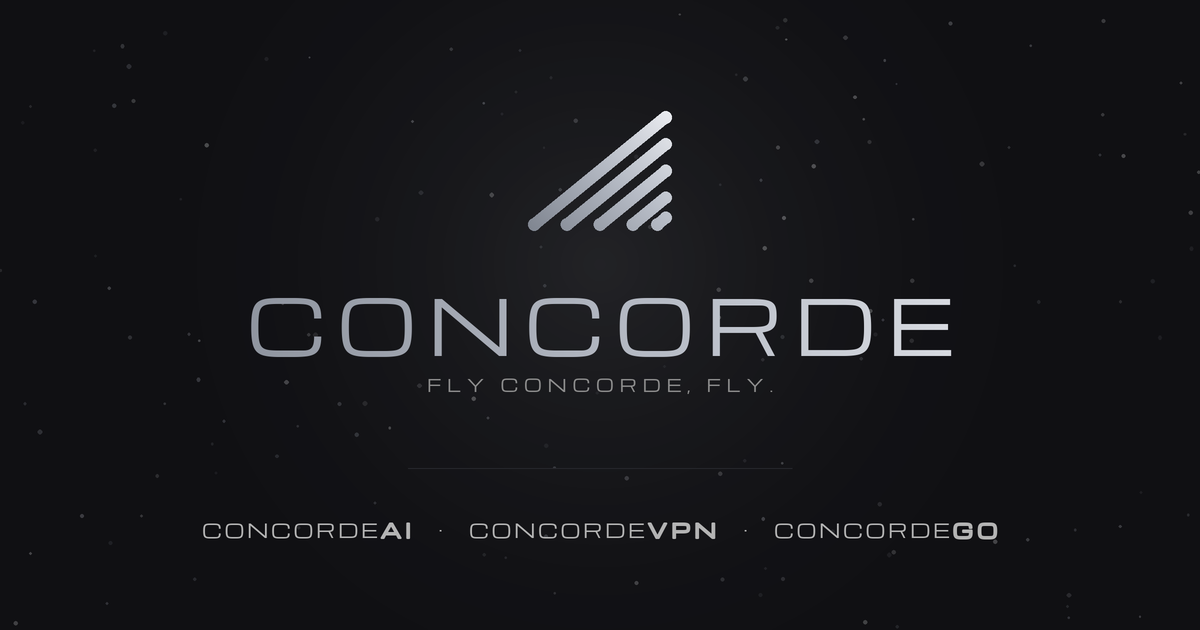
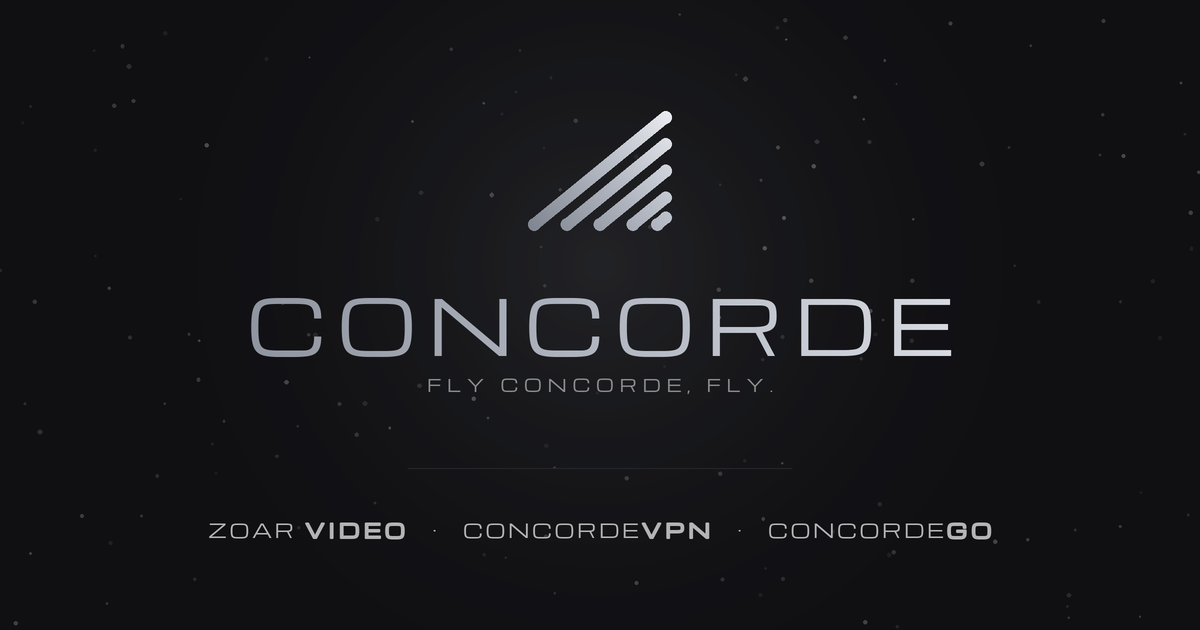
ConcordeAI retired: a downloads-only line, no FAQ, no news
ConcordeAI is no longer developed (Zoar Video leads). Its card keeps only its
name, one line and the last downloads; the releases:ai block and the sync
stay so the links resolve. Its FAQ group, contact option, structured-data
entry, window files and What's new entries are gone, the share card names
Zoar Video, and the install notes speak only of ConcordeVPN's channels.

Changed region(s): [[0.4008, 0.8143, 0.6167, 0.8746], [0.6475, 0.8143, 0.8325, 0.8746], [0.185, 0.8143, 0.3392, 0.8746]]

diff --git a/index.html b/index.html
@@ -22,20 +22,19 @@
 <meta property="og:site_name" content="Concorde">
 <meta property="og:title" content="Concorde: Zoar Video, ConcordeVPN and ConcordeGo">
 <meta property="og:description" content="Zoar Video: describe a film and your own machines make it. ConcordeVPN: a menu-bar VPN for your own server. ConcordeGo: flights, and friends where you fly.">
-<meta property="og:image" content="https://flyconcordefly.com/og.png?v=2">
+<meta property="og:image" content="https://flyconcordefly.com/og.png?v=3">
 <meta property="og:image:type" content="image/png">
 <meta property="og:image:width" content="1200">
 <meta property="og:image:height" content="630">
-<meta property="og:image:alt" content="The Concorde delta wing above the CONCORDE wordmark and the line Fly Concorde, Fly., with ConcordeAI, ConcordeVPN and ConcordeGo beneath.">
+<meta property="og:image:alt" content="The Concorde delta wing above the CONCORDE wordmark and the line Fly Concorde, Fly., with Zoar Video, ConcordeVPN and ConcordeGo beneath.">
 <meta name="twitter:card" content="summary_large_image">
 <!-- What search engines read about the site: its name, and one entry per app.
      Plain facts only; keep it true to the page. -->
 <script type="application/ld+json">
 {"@context":"https://schema.org","@graph":[
- {"@type":"WebSite","@id":"https://flyconcordefly.com/#site","url":"https://flyconcordefly.com/","name":"Concorde","alternateName":["Fly Concorde Fly","flyconcordefly"],"description":"Concorde makes ConcordeAI, ConcordeVPN and ConcordeGo.","publisher":{"@id":"https://flyconcordefly.com/#org"}},
+ {"@type":"WebSite","@id":"https://flyconcordefly.com/#site","url":"https://flyconcordefly.com/","name":"Concorde","alternateName":["Fly Concorde Fly","flyconcordefly"],"description":"Concorde makes Zoar Video, ConcordeVPN and ConcordeGo.","publisher":{"@id":"https://flyconcordefly.com/#org"}},
  {"@type":"Organization","@id":"https://flyconcordefly.com/#org","name":"Concorde","url":"https://flyconcordefly.com/","logo":"https://flyconcordefly.com/apple-touch-icon.png","slogan":"Fly Concorde, Fly."},
  {"@type":"WebApplication","name":"Zoar Video","url":"https://zoarvideo.com/","applicationCategory":"MultimediaApplication","operatingSystem":"Any browser","description":"Describe a film and your own machines make it: story, cast, voices, score and sound. Invite-only beta.","publisher":{"@id":"https://flyconcordefly.com/#org"}},
- {"@type":"SoftwareApplication","name":"ConcordeAI","url":"https://flyconcordefly.com/#concordeai","applicationCategory":"UtilitiesApplication","operatingSystem":"macOS, Windows","description":"An AI chat app that runs on your own Mac or PC.","offers":{"@type":"Offer","price":"0","priceCurrency":"USD"},"publisher":{"@id":"https://flyconcordefly.com/#org"}},
  {"@type":"SoftwareApplication","name":"ConcordeVPN","url":"https://flyconcordefly.com/#concordevpn","applicationCategory":"SecurityApplication","operatingSystem":"macOS","description":"A menu-bar VPN client for your own exit node.","offers":{"@type":"Offer","price":"0","priceCurrency":"USD"},"publisher":{"@id":"https://flyconcordefly.com/#org"}},
  {"@type":"WebApplication","name":"ConcordeGo","url":"https://go.flyconcordefly.com/","applicationCategory":"TravelApplication","operatingSystem":"Any browser","description":"Flight search that ranks flights by what the trip really costs, with friends and meet-ups along the way.","offers":{"@type":"Offer","price":"0","priceCurrency":"USD"},"publisher":{"@id":"https://flyconcordefly.com/#org"}},
  {"@type":"WebApplication","name":"ConcordeGo Lite","url":"https://go.flyconcordefly.com/lite","applicationCategory":"TravelApplication","operatingSystem":"Any browser","description":"Say where you need to be and get the earliest and the cheapest flights you can still make.","offers":{"@type":"Offer","price":"0","priceCurrency":"USD"},"publisher":{"@id":"https://flyconcordefly.com/#org"}}
@@ -252,7 +251,8 @@ main .section:last-child{padding-bottom:76px}
 }
 
 /* ---------- products: one full-width card each ----------
-   The products stack, ConcordeAI, ConcordeVPN, ConcordeGo, ConcordeGo Lite, and every
+   The products stack, Zoar Video, ConcordeVPN, ConcordeGo, ConcordeGo Lite, then the
+   retired ConcordeAI (name and downloads only), and every
    card is the same card: the product's window on the left and, on the right,
    one column read top to bottom: the name, line and chips, the numbered
    features, then the action box. The text column sets the card's height
@@ -399,6 +399,12 @@ html.hdrmarks .card-head .mark-hdr{position:relative;top:-2.5px}
 /* Zoar Video's name: its own word mark, not the Concorde lockup */
 .card-head .zmark{width:20px;height:18px;flex:0 0 auto;display:block}
 .card-head .zoar-name{font-family:var(--sans);font-weight:600;font-size:19px;letter-spacing:-.01em;color:#fff;line-height:1}
+/* A retired product: one row, its name and line beside its download box */
+.card.retired{grid-template-columns:minmax(0,1fr)}
+.card.retired .card-main{display:grid;grid-template-columns:minmax(0,6fr) minmax(0,5fr);align-items:start}
+.card.retired .card-head{border-bottom:0}
+.card.retired .dl{margin:26px 26px 26px 0}
+@media (max-width:1179px){.card.retired .card-main{display:block}.card.retired .dl{margin:0 20px 20px}}
 .feats .n{font-family:var(--mono);font-size:10.5px;letter-spacing:.06em;color:var(--faint);padding-top:2px}
 .feats b{
   display:block;font-family:var(--mono);font-size:11px;font-weight:600;
@@ -905,10 +911,6 @@ footer .right{margin-left:auto;display:flex;gap:20px;flex-wrap:wrap}
         <time datetime="2026-11-25">25 Nov</time>
         <ul><li><a href="#concordego">ConcordeGo</a> &mdash; Find friends at your airport today</li></ul>
       </div>
-      <div class="news-day">
-        <time datetime="2026-11-13">13 Nov</time>
-        <ul><li><a href="#concordeai">ConcordeAI</a> 7.0 beta 5 now available &mdash; A new reading typeface for answers; Stars and aurora behind your chats; A less cluttered interface</li></ul>
-      </div>
       <!-- /releases:news -->
       </div>
     </div>
@@ -1313,22 +1315,13 @@ footer .right{margin-left:auto;display:flex;gap:20px;flex-wrap:wrap}
           </div>
         </article>
 
-        <!-- ============ CARD: CONCORDEAI ============ -->
-        <article class="card reveal" id="concordeai" aria-labelledby="ai-name">
-          <div class="stage">
-            <div class="stage-in">
-              <a class="shot" href="assets/shot-ai.png">
-                <picture>
-                  <source srcset="assets/shot-ai.webp" type="image/webp">
-                  <img src="assets/shot-ai.png" width="1469" height="1532" loading="lazy" decoding="async"
-                       alt="ConcordeAI 7.0 as it opens: a glowing greeting under a near-black sky, and a message box with a question typed in, set to Max mode with the effort slider at Ultra, ringed by a violet glow and sparkles.">
-                </picture>
-                <span class="visually-hidden">Enlarge</span>
-              </a>
-              <p class="how"><span class="label">Downloads</span>macOS (7.0 is signed and notarized) and Windows.<br>Installed copies update themselves.</p>
-            </div>
-          </div>
-
+        <!-- ============ CARD: CONCORDEAI (retired) ============
+             ConcordeAI is no longer developed (2026-11-27: Pat chose Zoar Video,
+             above; ConcordeAI frozen but still downloadable, no new releases).
+             The card is only its name, one line and its download box. Keep the
+             releases:ai block: sync-releases.py still writes it, so the existing
+             download links keep resolving. -->
+        <article class="card reveal retired" id="concordeai" aria-labelledby="ai-name">
           <div class="card-main">
             <div class="card-head">
               <div class="row">
@@ -1340,31 +1333,8 @@ footer .right{margin-left:auto;display:flex;gap:20px;flex-wrap:wrap}
                   <line x1="19.3" y1="17.5" x2="20.4" y2="16.6"/></g></svg>
                 <h3 id="ai-name" class="lockup"><span class="mark-txt">Concorde<span class="tld">AI</span></span><video class="mark-hdr" data-mark="ai" muted playsinline loop preload="none" aria-hidden="true"></video></h3>
               </div>
-              <p class="desc">An AI app that runs on your own machines. Private by default, with the cloud only if you turn it on.</p>
-              <div class="plats label">
-                <span>macOS</span>
-                <span>Windows</span>
-              </div>
+              <p class="desc">No longer developed. The last builds stay here for anyone who already uses it; there will be no new releases.</p>
             </div>
-
-            <ul class="feats">
-              <li>
-                <span class="n">01</span>
-                <div><b>Private by default</b><span class="d">Answers run on your own machines. Cloud models are there when you turn them on.</span></div>
-              </li>
-              <li>
-                <span class="n">02</span>
-                <div><b>Five modes, one answer</b><span class="d">Fast, Thinking, Pro, Max or Deep, with an effort slider. Several drafts are combined into one answer.</span></div>
-              </li>
-              <li>
-                <span class="n">03</span>
-                <div><b>Your own stuff</b><span class="d">Bring your chats over from other apps. Answers can cite your own chats and files.</span></div>
-              </li>
-              <li>
-                <span class="n">04</span>
-                <div><b>Code and Funnels</b><span class="d">A code lane, and guided decisions that end in a recommendation.</span></div>
-              </li>
-            </ul>
 
             <div class="dl">
             <!-- releases:ai -->
@@ -1478,7 +1448,7 @@ footer .right{margin-left:auto;display:flex;gap:20px;flex-wrap:wrap}
       <div class="note reveal d1">
         <h3>Which build</h3>
         <div class="body">
-          <p>ConcordeAI and ConcordeVPN each come in up to three builds, one tab each on the download card:</p>
+          <p>ConcordeVPN comes in up to three builds, one tab each on the download card:</p>
           <ul class="chans">
             <li><b>Stable</b><span>The finished release. Start here if you just want it to work.</span></li>
             <li><b>Prerelease</b><span>Betas and release candidates: new features before Stable, tested but not final.</span></li>
@@ -1524,17 +1494,6 @@ footer .right{margin-left:auto;display:flex;gap:20px;flex-wrap:wrap}
         <h2 id="faq-h">FAQ</h2>
       </div>
       <div class="faq reveal d1">
-        <div class="faq-group">
-          <h3><span class="lockup">Concorde<span class="tld">AI</span></span></h3>
-          <div class="qs">
-            <details><summary>Does ConcordeAI run locally?</summary><div class="a"><p>Yes. Models download to your computer and run there: MLX on Apple silicon, Ollama on Intel Macs and Windows, using CUDA on NVIDIA cards. Cloud models stay off until you add an API key. Without one, two things still go online: web search, for questions about the world, and image requests, unless local image generation (Apple silicon only) is installed.</p></div></details>
-            <details><summary>How much disk space do I need?</summary><div class="a"><p>The setup wizard shows each model set&#x27;s download size for your machine before anything downloads. Basic is one 0.8 GB model. On a Mac, Pro is 7 to 11 GB, and Max, the largest set, is 22 to 25 GB with 16 GB of memory or about 50 GB with 32 GB. Local image generation, Apple silicon only, adds 9.6 GB.</p></div></details>
-            <details><summary>How much memory do I need?</summary><div class="a"><p>ConcordeAI only lists models your machine can hold: by default, those within 75% of your RAM, or on a PC with an NVIDIA card, 1.25 times the card&#x27;s memory if that is lower. Loading a model needs about one and a half times its size free, so roughly 4 GB for Llama 3.2 3B and 12 GB for Gemma 4 12B. If a model can&#x27;t load, a smaller installed one answers.</p></div></details>
-            <details><summary>Why use it over an online AI tool?</summary><div class="a"><p>With no cloud key, text answers come from models on your computer, your chats are saved in a file on it, and local models work offline. Add a Gemini, Groq, Claude or Kimi key and cloud models join in. Thinking and Pro modes blend several models&#x27; drafts into one answer, and the same window has a Code lane, with an SSH agent that asks before irreversible commands, and Funnels for step-by-step decisions.</p></div></details>
-            <details><summary>What is Funnel?</summary><div class="a"><p>A way to make a decision rather than chat about one. Open Funnels and say what you&rsquo;re deciding, plus anything that has to hold, such as a budget or a size. ConcordeAI then asks one question at a time, each with a few options to pick from, and every pick narrows the next question, so the choices close in instead of starting over. It ends with one recommendation: a real, named pick, why it fits what you chose, and what to do next. Some funnels show a real photo from the web with each option.</p></div></details>
-            <details><summary>Can I use my chats on another computer?</summary><div class="a"><p>It&rsquo;s coming: an optional sign-in that carries your chats between your own computers. Until then, your chats are saved in a file on the computer you use, and ConcordeAI keeps working without an account.</p></div></details>
-          </div>
-        </div>
         <div class="faq-group">
           <h3><span class="lockup">Concorde<span class="tld">VPN</span></span></h3>
           <div class="qs">
@@ -1588,7 +1547,6 @@ footer .right{margin-left:auto;display:flex;gap:20px;flex-wrap:wrap}
             </div>
             <label for="contact-product">About
               <select id="contact-product" name="product">
-                <option>ConcordeAI</option>
                 <option>ConcordeVPN</option>
                 <option>ConcordeGo</option>
                 <option>This website</option>
@@ -1620,13 +1578,13 @@ footer .right{margin-left:auto;display:flex;gap:20px;flex-wrap:wrap}
         <h3>Why they exist</h3>
         <div class="body">
           <p>I built these to fill gaps: things the apps I already used couldn&rsquo;t do, and tools I needed that didn&rsquo;t exist. Once they worked well enough for me every day, I cleaned them up so other people could use them too.</p>
-          <p>This is a hobby, not a business, and I&rsquo;m adding features all the time. If one of these turns out to be useful to you, keep it up to date. ConcordeAI and ConcordeVPN update themselves; ConcordeGo is a website, so it is always current.</p>
+          <p>This is a hobby, not a business, and I&rsquo;m adding features all the time. If one of these turns out to be useful to you, keep it up to date. ConcordeVPN updates itself; Zoar Video and ConcordeGo are websites, so they are always current.</p>
           <p class="sig">&mdash; Pat</p>
         </div>
 
         <h3>Channels</h3>
         <div class="body">
-          <p>ConcordeAI and ConcordeVPN each ship on up to three channels.</p>
+          <p>ConcordeVPN ships on up to three channels.</p>
           <ul class="chans">
             <li><b>Stable</b><span>The finished release. Use this one if you just want it to work.</span></li>
             <li><b>Prerelease</b><span>Betas with new features and fixes I&rsquo;ve confirmed. Relatively stable.</span></li>

diff --git a/tools/sync-releases.py b/tools/sync-releases.py
@@ -1142,6 +1142,9 @@ NEWS_DAYS = 30                           # how far back anything is considered
 NEWS_KEY = "news"
 NEWS_PROMPT = Path(__file__).with_name("news-prompt.md")
 NEWS_FEATURES = 3
+# Products no longer developed: their downloads stay on the page, but they are
+# not news (ConcordeAI, retired 2026-11-27 for Zoar Video).
+NEWS_RETIRED = {"ai"}
 ANCHOR = {"ai": ("#concordeai", "ConcordeAI"), "vpn": ("#concordevpn", "ConcordeVPN"), "go": ("#concordego", "ConcordeGo")}
 # A ConcordeGo update whose every line is about Lite ("Lite, three good
 # flights…") links to Lite's own card instead, named in full, the "Lite" lead
@@ -1295,6 +1298,8 @@ def news_entries(go=None, today=None):
     auto = load_auto()
     entries = []
     for key, repo, _buttons in PRODUCTS:
+        if key in NEWS_RETIRED:
+            continue
         try:
             groups = news_groups(repo, today)
         except SystemExit as exc:

diff --git a/tools-make-og.py b/tools-make-og.py
@@ -189,7 +189,7 @@ def main():
            width=max(1, X))
     f_prod = ImageFont.truetype(FONT, int(19 * X))
     b = max(1, int(1.1 * X))          # synthetic weight for the suffixes
-    segments(img, [("CONCORDE", 0), ("AI", b), ("   \u00b7   ", 0),
+    segments(img, [("ZOAR ", 0), ("VIDEO", b), ("   \u00b7   ", 0),
                    ("CONCORDE", 0), ("VPN", b), ("   \u00b7   ", 0),
                    ("CONCORDE", 0), ("GO", b)],
              f_prod, int(19 * X * 0.15), int(516 * X), (180, 180, 180))

diff --git a/tools/make-shots.py b/tools/make-shots.py
@@ -61,7 +61,6 @@ OPAQUE = 250     # alpha at or above this is window; below is shadow or air
 # the window plus MARGIN/k of shadow on every side, where k = WIN_H / the
 # window's 2x pixel height; the script refuses a capture that is too small.
 SOURCES = {
-    "ai":  ("ai-window.html",  (1200, 1280)),
     "vpn": ("vpn-window.html", (780, 960)),
     "go":  ("go-window.html",  (1470, 1600)),   # a browser frame round go-capture.png
     "zoar": ("zoar-window.html", (1520, 1580)),  # three sample-film stills

diff --git a/tools/README.md b/tools/README.md
@@ -297,22 +297,9 @@ label is out of date.
 
 ## The product windows
 
-Each product card shows one window: `windows/ai-window.html`,
-`windows/vpn-window.html`, `windows/go-window.html` and
-`windows/lite-window.html`. The first two are
-the apps' own UIs, rebuilt as static HTML from each app's real page (its
-markup and its own CSS rules, with fake data) rather than screenshots of
-whatever happened to be on screen. They are HTML so they stay crisp at any
-size and can be restaged without re-shooting. The AI window is the Horizon home as ConcordeAI 7.0
-draws it, a 2x capture of the app's real page (see "Retaking
-`windows/ai-capture.png`"): the greeting under the near-black sky, the message
-box with a question typed in, Max mode and the effort slider at Ultra. The VPN
-window is the main window as ConcordeVPN 1.5 draws it, 460x590: connected
-through New York, Balanced, with the speed card and the Mode and Exit rows. It
-is a capture of the app's real page (see "Retaking `windows/vpn-capture.png`").
-ConcordeGo is a website, so its window is a plain browser frame round a
-capture of the live app. ConcordeGo's is `windows/go-capture.png` and ConcordeGo Lite's (the address
-bar reads go.flyconcordefly.com/lite) is `windows/lite-capture.png`.
+Each product card shows one window: `windows/zoar-window.html` (sample-film stills),
+`windows/vpn-window.html`, `windows/go-window.html` and `windows/lite-window.html`.
+ConcordeAI, retired, has no window.
 
 Three rules they exist to enforce:
 
@@ -386,39 +373,7 @@ Zoar's screens show the owner's own projects. To swap a film, replace its jpg,
 fix its caption, re-run `make-shots.py`, and update the matching link under
 the window in `index.html`. Only films that are original and fictional go here.
 
-### Retaking `windows/ai-capture.png`
-
-The app serves its own page, so the capture is the real thing, with a fresh,
-empty data folder (no chats, accounts or servers). From the ConcordeAI repo
-(use a copy of the tree, e.g. `git archive <branch> | tar -x -C <scratch>`, so
-nothing in the working tree changes), with the app's own Python:
-
-    VENV="$HOME/Library/Application Support/MillenAI/venv/bin/python3"
-    MILLENAI_DEV=1 MILLENAI_HOME=<empty scratch dir> MILLENAI_NOWINDOW=1 \
-      MILLENAI_PORT=9931 "$VENV" millenai.py &
-    # wait for <home>/run/instance.json; its "key" is the launch cookie
-
-then, with `measure.mjs` (its `MEASURE_COOKIE`, `MEASURE_INIT` and
-`MEASURE_MOTION` exist for this: the app wants its cookie, `millen.fxlevel`
-set to `full` before it loads, and motion left on):
-
-    MEASURE_COOKIE="millen_key_9931=<key>" MEASURE_MOTION=1 MEASURE_DPR=2.5106383 \
-    MEASURE_INIT='localStorage.setItem("millen.fxlevel","full")' \
-    node tools/measure.mjs http://127.0.0.1:9931/ 940x988 '<expression>' /tmp/ai.png
-
-940x988 at 2.51x is near the app's smallest window, so the interface reads large
-(the PNG is 2360x2481; crop it to 2360x2480). The expression waits 15 s for the
-intro, opens the mode menu (`button.hz-pick`) and picks **Max**, types "Explain
-how a heat pump works, then compare three models under $4,000" into `#input`
-(never sends it), pushes the effort `input[type=range]` to its max (**Ultra**:
-the ice-violet slider, the glowing composer and the sparkles), then for about
-4 s removes the "window didn't finish starting" toast a window-less dev copy
-shows, and blurs the box. (2026-11-11, per Pat: the site did not make the
-product look as good as it is; the plain Medium/Fast home was dull.) Save the PNG as `tools/windows/ai-capture.png` (2360x2480), run `make-shots.py`,
-look at it, then stop the dev copy (`kill $(lsof -tnP -iTCP:9931 -sTCP:LISTEN)`).
-Never open a visible app window or add `?hz=gpu=1` (a dev badge); the app's
-Apple aerial footage never goes on the site (the capture is the app's own
-near-black sky). Retake it when the home screen changes.
+(ConcordeAI's window was retired with the app on 2026-11-27; its recipe is in git history.)
 
 ### Retaking `windows/vpn-capture.png`
 
